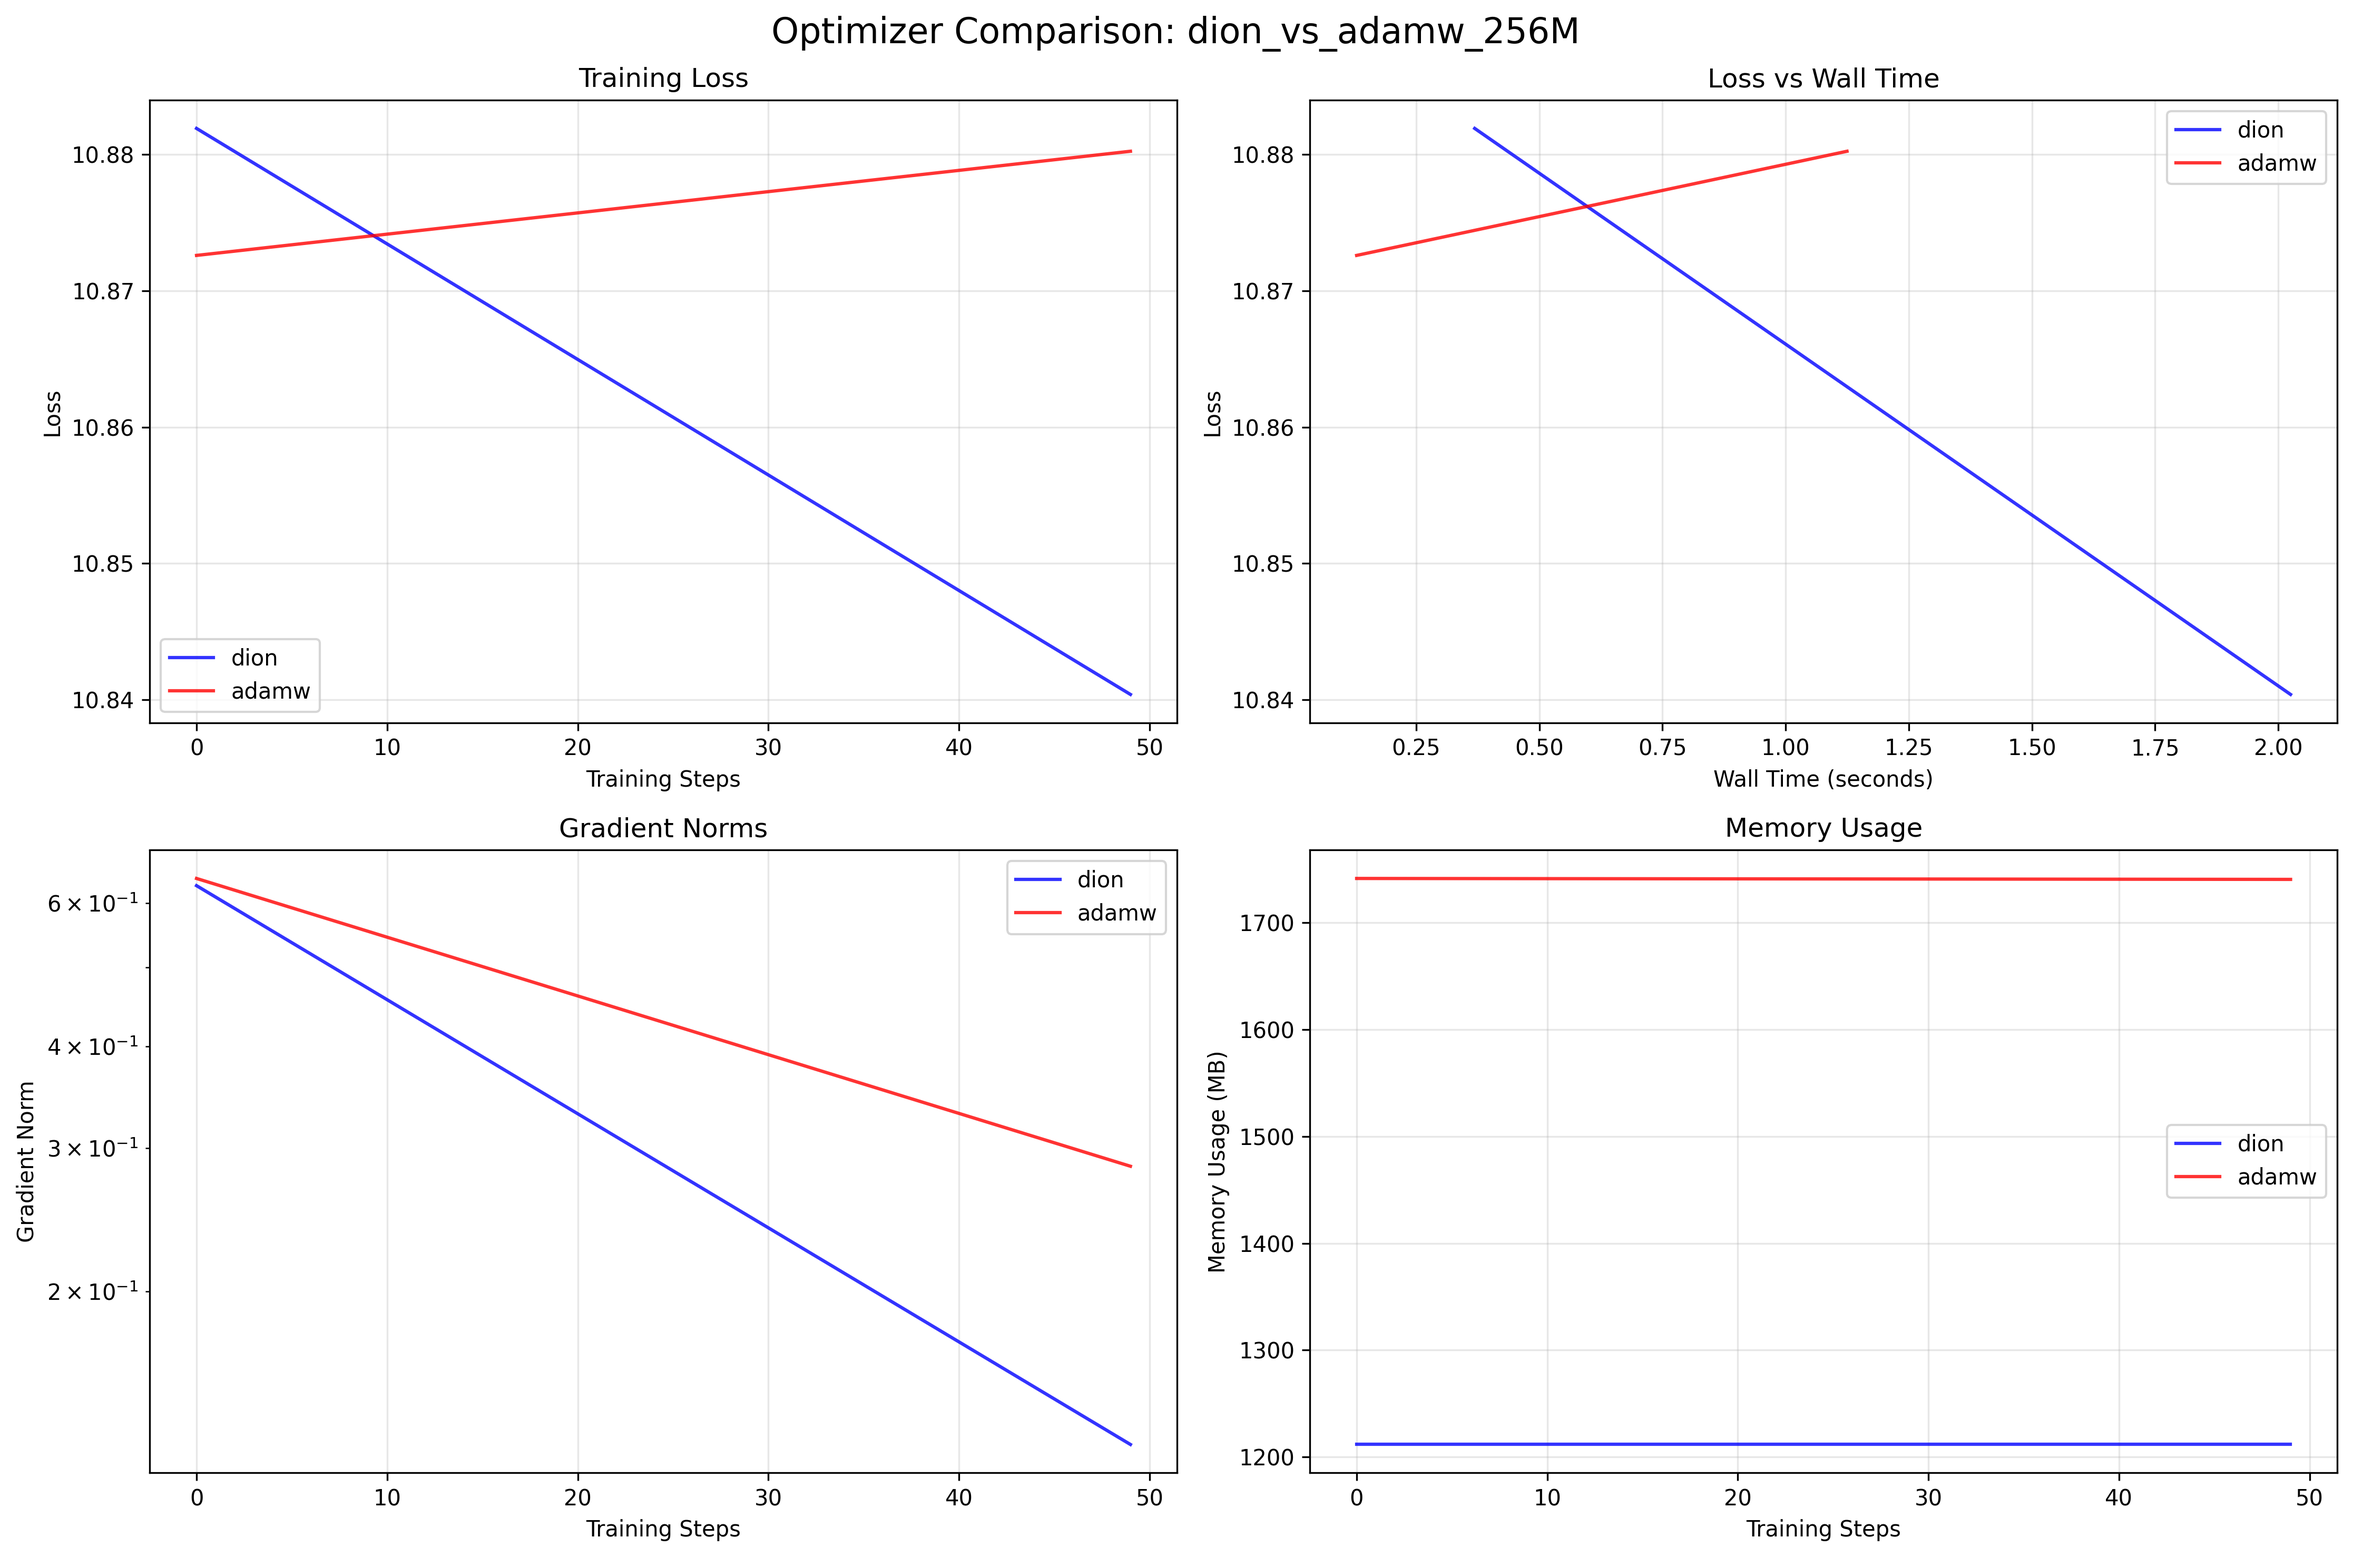
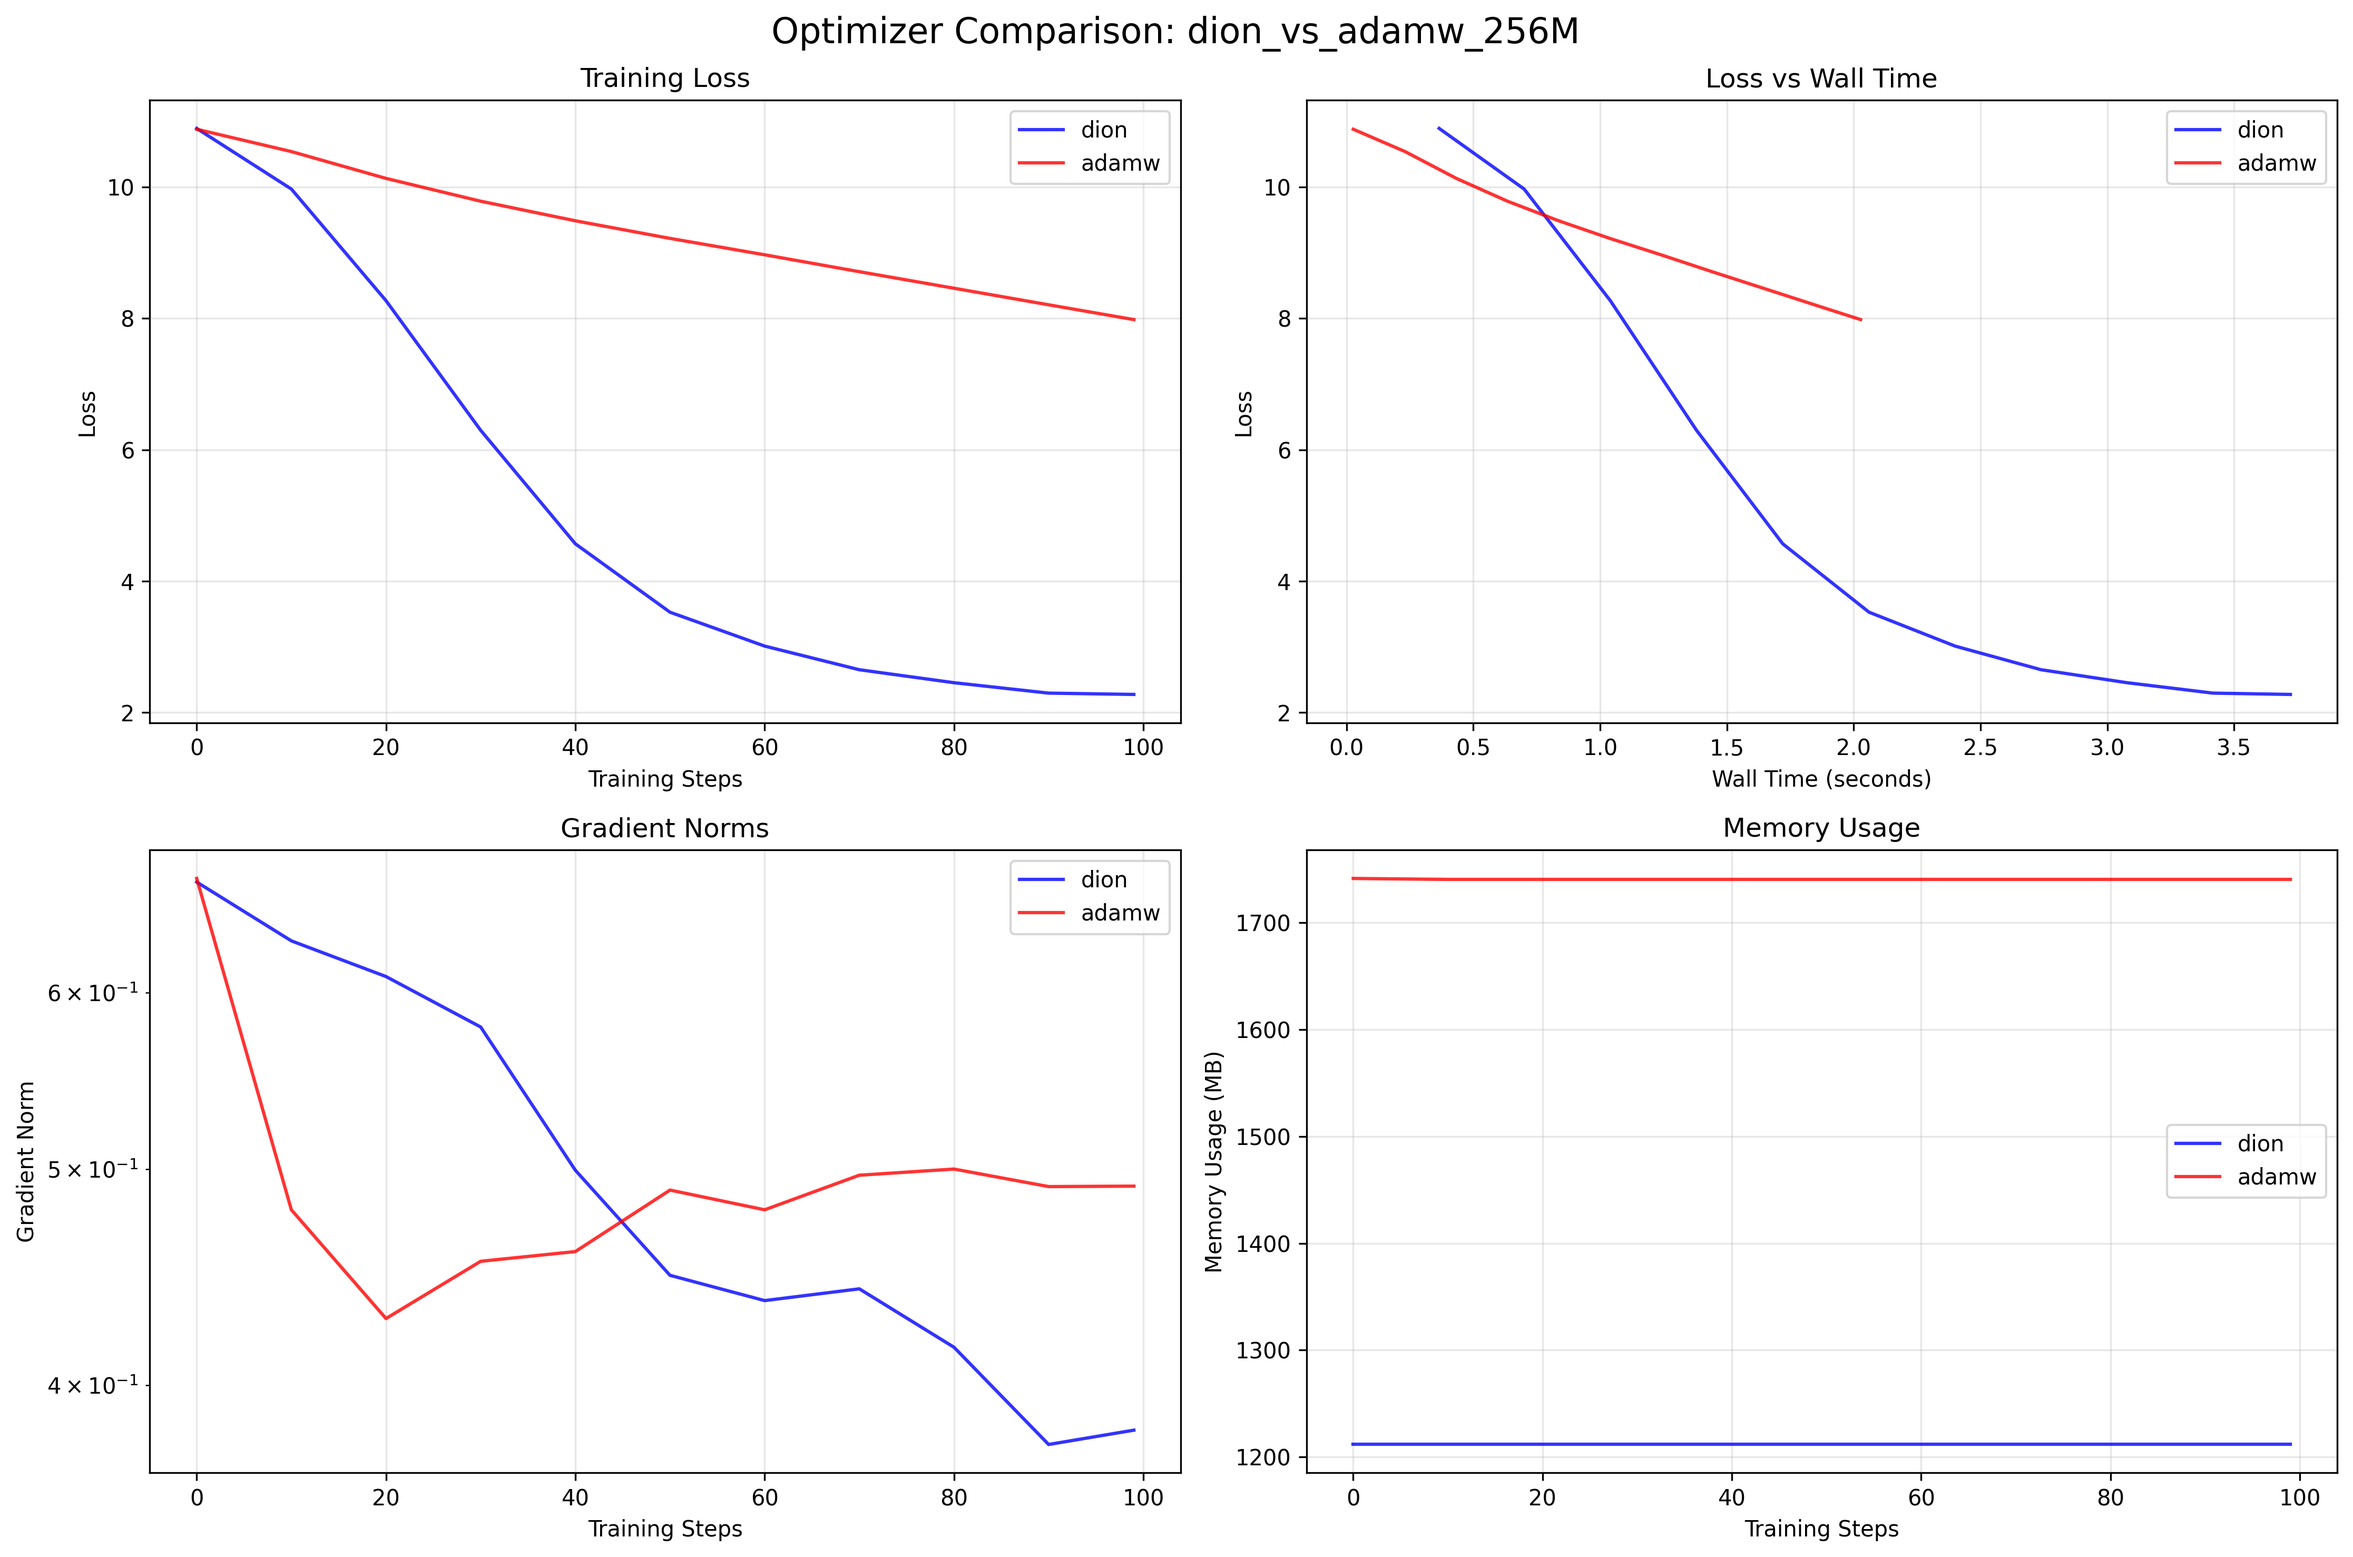
add pattern style dataset

diff --git a/src/gptTraining.py b/src/gptTraining.py
@@ -49,7 +49,7 @@ class TrainingConfig:
     # Training settings
     batch_size: int = 8
     max_steps: int = 3000
-    eval_interval: int = 100
+    eval_interval: int = 10  # Reduced to get more data points
     eval_steps: int = 50
 
     # Optimizer settings
@@ -224,25 +224,57 @@ class MLP(nn.Module):
 
 
 class SyntheticDataset(Dataset):
-    """Synthetic dataset for language modeling."""
+    """Synthetic dataset for language modeling with pattern-like structure."""
 
     def __init__(self, config: TrainingConfig):
         self.config = config
         self.data_size = config.dataset_size
 
-        # Generate random sequences
-        self.data = torch.randint(
-            0, config.vocab_size, (config.dataset_size, config.max_seq_len + 1)
+        # Generate random sequences with some pattern structure
+        # We'll create sequences where each token has some correlation with nearby tokens
+        base_data = torch.randint(
+            0, config.vocab_size // 10, (config.dataset_size, config.max_seq_len // 4)
         )
+
+        # Expand the base data to create patterns
+        expanded = []
+        for i in range(base_data.size(1)):
+            # Each base token expands to 4 related tokens
+            chunk = base_data[:, i : i + 1].repeat(1, 4)
+            # Add small variations to create patterns (each position gets a different offset)
+            offsets = torch.arange(0, 4).view(1, 4).repeat(base_data.size(0), 1)
+            chunk = (chunk + offsets * (config.vocab_size // 20)) % config.vocab_size
+            expanded.append(chunk)
+
+        self.data = torch.cat(expanded, dim=1)
+
+        # Ensure we have the right sequence length
+        if self.data.size(1) < config.max_seq_len:
+            padding = torch.randint(
+                0,
+                config.vocab_size,
+                (config.dataset_size, config.max_seq_len - self.data.size(1)),
+            )
+            self.data = torch.cat([self.data, padding], dim=1)
+        else:
+            self.data = self.data[:, : config.max_seq_len]
 
     def __len__(self):
         return self.data_size
 
     def __getitem__(self, idx):
-        sequence = self.data[idx]
-        input_ids = sequence[:-1]
-        targets = sequence[1:]
-        return input_ids, targets
+        # Get the input sequence
+        input_ids = self.data[idx]
+
+        # Target is to predict the next token (shifted by 1)
+        # For the last position, we'll use a special token (-1) that will be ignored in the loss
+        target = torch.roll(input_ids, -1)
+        target[-1] = -1  # Ignore index for cross entropy
+
+        # Ensure all target indices are within valid range
+        target = torch.clamp(target, min=-1, max=self.config.vocab_size - 1)
+
+        return input_ids, target
 
 
 @dataclass
